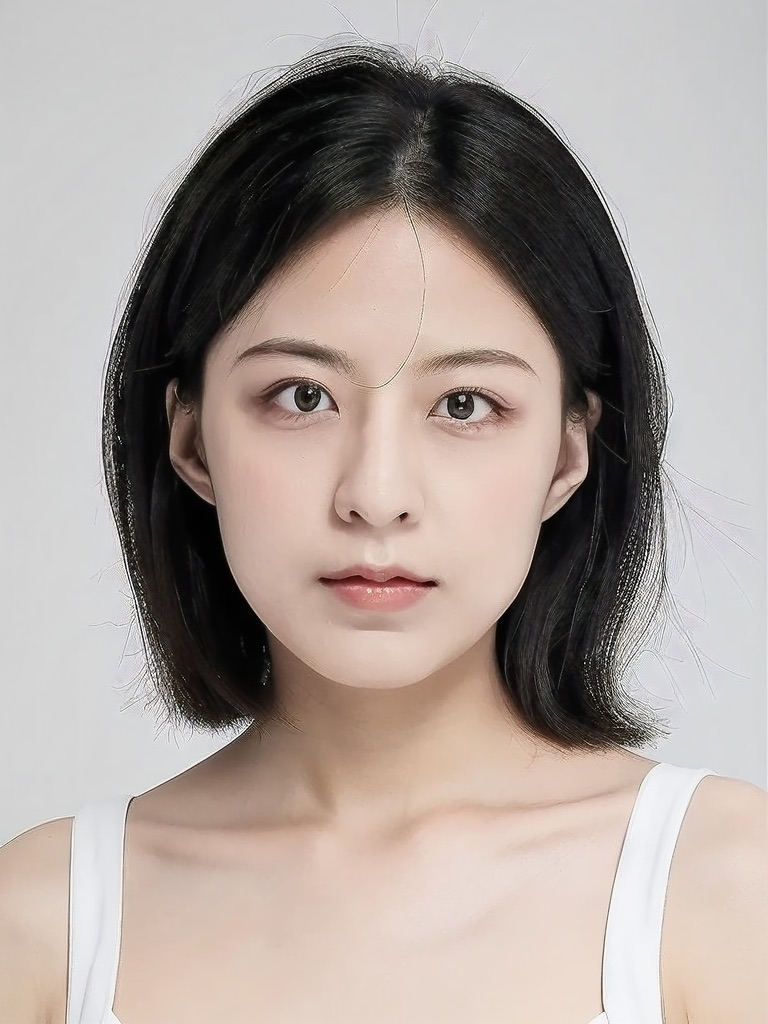
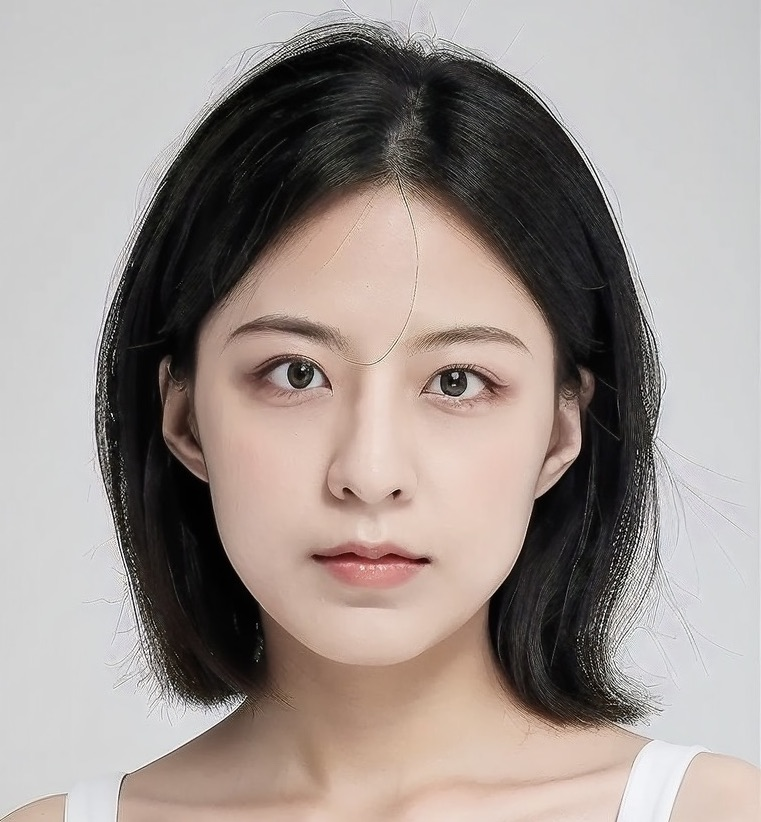
Updated UI and contents

diff --git a/components/intro.tsx b/components/intro.tsx
@@ -4,7 +4,7 @@ import React from "react";
 import { motion } from "framer-motion";
 import Link from "next/link";
 import { BsArrowRight, BsGithub, BsLinkedin } from "react-icons/bs";
-import { HiDownload } from "react-icons/hi";
+import { HiEye } from "react-icons/hi";
 import { useActiveSectionContext } from "../context/active-section-context";
 import { useSectionInView } from "../lib/hooks";
 export default function Intro() {
@@ -13,10 +13,20 @@ export default function Intro() {
   return (
     <section
       ref={ref}
-      className="mb-2 max-w-[50rem] text-center sm:mb-0 scroll-mt-[100rem]"
+      className="mb-2 max-w-[50rem] text-right sm:mb-0 scroll-mt-[100rem]"
       id="home"
     >
-      <div className="flex items-center justify-center sm:mb-0">
+      <div className="flex flex-col items-center justify-center sm:mb-10 sm:flex-row">
+        <motion.h1
+          className="mb-10 mt-4 px-10 text-3xl font-medium !leading-[1.5] sm:text-5xl"
+          initial={{ opacity: 0, y: 100 }}
+          animate={{ opacity: 1, y: 0 }}
+        >
+          <span className="font-semibold">Echo Wang </span>
+          <div className="text-[12pt] font-normal mt-4">
+            Life-long learner, problem solver, and cat lover.
+          </div>
+        </motion.h1>
         <div className="relative">
           <motion.div
             initial={{ opacity: 0, scale: 0 }}
@@ -29,15 +39,15 @@ export default function Intro() {
             <Image
               src="/portrait.jpeg"
               alt="Echo portrait"
-              width="192"
-              height="192"
+              width="150"
+              height="200"
               quality="95"
               priority={true}
-              className="h-24 w-24 rounded-full object-cover border-[0.2rem] border-white shadow-2xl"
+              className="h-30 w-30 rounded-full object-cover border-[0.2rem] border-white shadow-2xl"
             />
           </motion.div>
           <motion.span
-            className="absolute bottom-0 right-0 text-3xl"
+            className="absolute bottom-0 right-1 text-3xl"
             initial={{ opacity: 0, scale: 0 }}
             animate={{ opacity: 1, scale: 1 }}
             transition={{
@@ -51,25 +61,23 @@ export default function Intro() {
           </motion.span>
         </div>
       </div>
-      <motion.h1
-        className="mb-10 mt-4 px-4 text-2xl font-medium !leading-[1.5] sm:text-4xl"
-        initial={{ opacity: 0, y: 100 }}
-        animate={{ opacity: 1, y: 0 }}
-      >
-        <span className="font-bold">Hello, I&apos;m Echo.</span> I&apos;m an{" "}
-        <span className="font-bold">full-stack aspiring developer</span> with{" "}
-        <span className="font-bold">extreme</span> passion to programming. I
-        enjoy building <span className="italic">sites & apps</span>. My focus is{" "}
-        <span className="underline">React (Next.js)</span>.
-      </motion.h1>
+
       <motion.div
-        className="flex flex-col sm:flex-row items-center justify-center gap-2 px-4 text-lg font-medium"
+        className="flex flex-col sm:flex-row items-center justify-center gap-2 px-4 text-md font-medium sm:text-lg"
         initial={{ opacity: 0, y: 100 }}
         animate={{ opacity: 1, y: 0 }}
         transition={{
           delay: 0.1,
         }}
       >
+        <a
+          className="group bg-white  px-7 py-3 flex items-center gap-2 rounded-full outline-none focus:scale-110 hover:scale-110 active:scale-105 transition cursor-pointer borderBlack dark:bg-white/10"
+          href="/resume.pdf"
+          target="_blank"
+        >
+          Open My Resume
+          <HiEye className="opacity-60 group-hover:translate-x-1 transition" />
+        </a>
         <Link
           href="#contact"
           className="group bg-gray-900 text-white px-7 py-3 flex items-center gap-2 rounded-full outline-none focus:scale-110 hover:scale-110 hover:bg-gray-950 active:scale-105 transition"
@@ -78,19 +86,9 @@ export default function Intro() {
             setTimeOfLastClick(Date.now());
           }}
         >
-          {" "}
           Contact me here{" "}
           <BsArrowRight className="opacity-70 group-hover:translate-x-1 transition" />
         </Link>
-
-        <a
-          className="group bg-white  px-7 py-3 flex items-center gap-2 rounded-full outline-none focus:scale-110 hover:scale-110 active:scale-105 transition cursor-pointer borderBlack dark:bg-white/10"
-          href="/resume.pdf"
-          download
-        >
-          Download Resume{" "}
-          <HiDownload className="opacity-60 group-hover:translate-y-1 transition" />
-        </a>
 
         <a
           className="bg-white p-4 text-gray-700 flex items-center gap-2 rounded-full focus:scale-[1.15] hover:scale-[1.15] hover:text-gray-950 active:scale-105 transition cursor-pointer borderBlack dark:bg-white/10 dark:text-white/60"
@@ -101,7 +99,7 @@ export default function Intro() {
         </a>
 
         <a
-          className="bg-white p-4 text-gray-700 flex items-center gap-2 rounded-full text-[1.35rem] focus:scale-[1.15] hover:scale-[1.15] hover:text-gray-950 active:scale-105 transition cursor-pointer borderBlack dark:bg-white/10 dark:text-white/60"
+          className="bg-white p-4 text-gray-700 flex items-center gap-2 rounded-full text-[1.15rem] focus:scale-[1.15] hover:scale-[1.15] hover:text-gray-950 active:scale-105 transition cursor-pointer borderBlack dark:bg-white/10 dark:text-white/60"
           href="https://github.com/EchooWww"
           target="_blank"
         >

diff --git a/lib/data.ts b/lib/data.ts
@@ -2,9 +2,9 @@ import React from "react";
 import { CgWorkAlt } from "react-icons/cg";
 import { FaReact } from "react-icons/fa";
 import { LuGraduationCap } from "react-icons/lu";
-import corpcommentImg from "@/public/corpcomment.png";
-import rmtdevImg from "@/public/rmtdev.png";
-import wordanalyticsImg from "@/public/wordanalytics.png";
+import drivethrudietImg from "@/public/drivethrudiet.png";
+import ecohabitImg from "@/public/ecohabit.png";
+import courseraiImg from "@/public/courserai.png";
 
 export const links = [
   {
@@ -68,25 +68,50 @@ export const experiencesData = [
 
 export const projectsData = [
   {
-    title: "CorpComment",
+    title: "Courserai",
     description:
-      "I worked as a full-stack developer on this startup project for 2 years. Users can give public feedback to companies.",
-    tags: ["React", "Next.js", "MongoDB", "Tailwind", "Prisma"],
-    imageUrl: corpcommentImg,
+      "A web app that enables users to generate their own courses with help of AI.",
+    tags: [
+      "Next.js",
+      "React",
+      "TypeScript",
+      "Prisma",
+      "Tailwind",
+      "Shadcn",
+      "OpenAI API",
+      "YouTube API",
+    ],
+    imageUrl: courseraiImg,
   },
   {
     title: "DriveThruDiet",
     description:
-      "Job board for remote developer jobs. I was the front-end developer. It has features like filtering, sorting and pagination.",
-    tags: ["React", "TypeScript", "Next.js", "Tailwind", "Redux"],
-    imageUrl: rmtdevImg,
+      "A fast food nutrition calculator that helps users make healthier choices based on their diet goals.",
+    tags: [
+      "Node.js",
+      "Express",
+      "EJS",
+      "MongoDB",
+      "OpenAI API",
+      "Google Maps API",
+    ],
+    imageUrl: drivethrudietImg,
   },
   {
     title: "EcoHabit",
     description:
-      "A public web app for quick analytics on text. It shows word count, character count and social media post limits.",
-    tags: ["React", "Next.js", "SQL", "Tailwind", "Framer"],
-    imageUrl: wordanalyticsImg,
+      "A eco-friendly habit tracker that helps users track their daily habits and carbon footprint.",
+    tags: [
+      "Html",
+      "css",
+      "Bootstrap",
+      "Javascript",
+      "Firebase",
+      "Node.js",
+      "Socket.io",
+      "OpenAI API",
+    ],
+    imageUrl: ecohabitImg,
   },
 ] as const;
 
@@ -99,10 +124,12 @@ export const skillsData = [
   "React",
   "Next.js",
   "Node.js",
-  "Git",
   "Tailwind",
   "MongoDB",
   "Firebase",
   "Express",
   "Python",
+  "Prisma",
+  "Web API",
+  "Git & GitHub",
 ] as const;

diff --git a/components/about.tsx b/components/about.tsx
@@ -9,35 +9,34 @@ export default function About() {
   return (
     <motion.section
       ref={ref}
-      className="mb-28 max-w-[45rem] text-center leading-8 sm:mb-40 scroll-mt-28"
+      className="mb-28 max-w-[45rem] text-left leading-8 sm:mb-40 scroll-mt-28"
       initial={{ opacity: 0, y: 100 }}
       animate={{ opacity: 1, y: 0 }}
       transition={{ delay: 0.175 }}
       id="about"
     >
-      <SectionHeading> About Me</SectionHeading>
+      <SectionHeading>Echo.about()</SectionHeading>
       <p className="mb-3">
-        After graduating with a master&apos;s degree in{" "}
-        <span className="font-medium">Psychology</span>, I decided to pursue my
-        passion for programming. I enrolled in BCIT and learned{" "}
+        After several years for working in marketing and social media, I decided
+        to pursue my passion for programming. I enrolled in BCIT and learned{" "}
         <span className="font-medium">
           programming languages and web development
         </span>
         . <span className="italic">My favorite part of programming</span> is the
-        problem-solving aspect. I <span className="underline">love</span> the
-        feeling of finally figuring out a solution to a problem. I am always
-        looking to learn new technologies. I am currently looking for a{" "}
-        <span className="font-medium">co-op position</span> as a software
-        developer.
+        problem-solving aspect. I love the feeling of finally figuring out a
+        solution to a problem. I am always looking to learn new technologies. I
+        am currently looking for a{" "}
+        <span className="font-medium">co-op position</span> as a{" "}
+        <span className="underline">software developer</span>.
       </p>
 
       <p>
-        <span className="italic">When I&apos;m not coding</span>, I enjoy watching
-        movies and playing with my cats. I also enjoy{" "}
+        <span className="italic">When I&apos;m not coding</span>, I enjoy
+        watching movies and playing with my 🐱cats. I also enjoy{" "}
         <span className="font-medium">learning new things</span>. I am currently
         learning about{" "}
-        <span className="font-medium">photography and video-editing</span>. I&apos;m
-        also learning how to play the guitar.
+        <span className="font-medium">📷photography and video-editing</span>.
+        I&apos;m also learning how to play the 🎸guitar.
       </p>
     </motion.section>
   );

diff --git a/components/project.tsx b/components/project.tsx
@@ -52,7 +52,7 @@ export default function Project({
           src={imageUrl}
           alt="Project I worked on"
           quality={95}
-          className="absolute hidden sm:block top-8 -right-40 w-[28.25rem] rounded-t-lg shadow-2xl
+          className="absolute hidden sm:block top-20 -right-20 w-[26rem] rounded-t-lg shadow-2xl
         transition 
         group-hover:scale-[1.04]
         group-hover:-translate-x-3
@@ -63,7 +63,7 @@ export default function Project({
         group-even:group-hover:translate-y-3
         group-even:group-hover:rotate-2
 
-        group-even:right-[initial] group-even:-left-40"
+        group-even:right-[initial] group-even:-left-20"
         />
       </section>
     </motion.div>

diff --git a/components/experience.tsx b/components/experience.tsx
@@ -15,7 +15,7 @@ export default function Experience() {
   const { theme } = useTheme();
   return (
     <section ref={ref} id="experience" className="sm:mb-40 mb-28 scroll-mt-28">
-      <SectionHeading>My Experience</SectionHeading>
+      <SectionHeading>Echo.experience()</SectionHeading>
       <VerticalTimeline lineColor="">
         {experiencesData.map((item, index) => (
           <React.Fragment key={index}>

diff --git a/components/section-divider.tsx b/components/section-divider.tsx
@@ -4,7 +4,7 @@ import { motion } from "framer-motion";
 export default function SectionDivider() {
   return (
     <motion.div
-      className="bg-gray-200 my-24 h-16 w-1 rounded-full hidden sm:block dark:bg-opacity-20"
+      className="bg-gray-200 my-12 h-8 w-1 rounded-full block dark:bg-opacity-20"
       initial={{ opacity: 0, y: 100 }}
       animate={{ opacity: 1, y: 0 }}
       transition={{

diff --git a/components/projects.tsx b/components/projects.tsx
@@ -9,7 +9,7 @@ export default function Projects() {
   const { ref } = useSectionInView("Projects", 0.5);
   return (
     <section className="scroll-mt-28 mb-28" id="projects" ref={ref}>
-      <SectionHeading> My Projects</SectionHeading>
+      <SectionHeading>Echo.projects()</SectionHeading>
       <div>
         {projectsData.map((project, index) => (
           <React.Fragment key={index}>

diff --git a/components/skills.tsx b/components/skills.tsx
@@ -27,7 +27,7 @@ export default function Skills() {
       ref={ref}
       id="skills"
     >
-      <SectionHeading>My Skills</SectionHeading>
+      <SectionHeading>Echo.skills()</SectionHeading>
       <ul className="flex flex-wrap justify-center gap-2 text-md text-gray-700">
         {skillsData.map((skill, index) => (
           <motion.li

diff --git a/components/contact.tsx b/components/contact.tsx
@@ -19,7 +19,7 @@ export default function Contact() {
       transition={{ duration: 1 }}
       viewport={{ once: true }}
     >
-      <SectionHeading>Contact me </SectionHeading>
+      <SectionHeading>Echo.contact()</SectionHeading>
 
       <p className="text-gray-700 -mt-5 dark:text-white/80">
         Please contact me directly at{" "}

diff --git a/components/section-heading.tsx b/components/section-heading.tsx
@@ -5,9 +5,5 @@ type SectionHeadingProps = {
 };
 
 export default function SectionHeading({ children }: SectionHeadingProps) {
-  return (
-    <h2 className="text-3xl font-medium capitalize mb-8 text-center">
-      {children}
-    </h2>
-  );
+  return <h2 className="text-3xl font-medium mb-8 text-center">{children}</h2>;
 }

diff --git a/next.config.js b/next.config.js
@@ -9,6 +9,12 @@ module.exports = {
       },
     ],
   },
+  eslint: {
+    ignoreDuringBuilds: true,
+  },
+  typescript: {
+    ignoreBuildErrors: true,
+  },
   experimental: {
     serverActions: true,
   },
